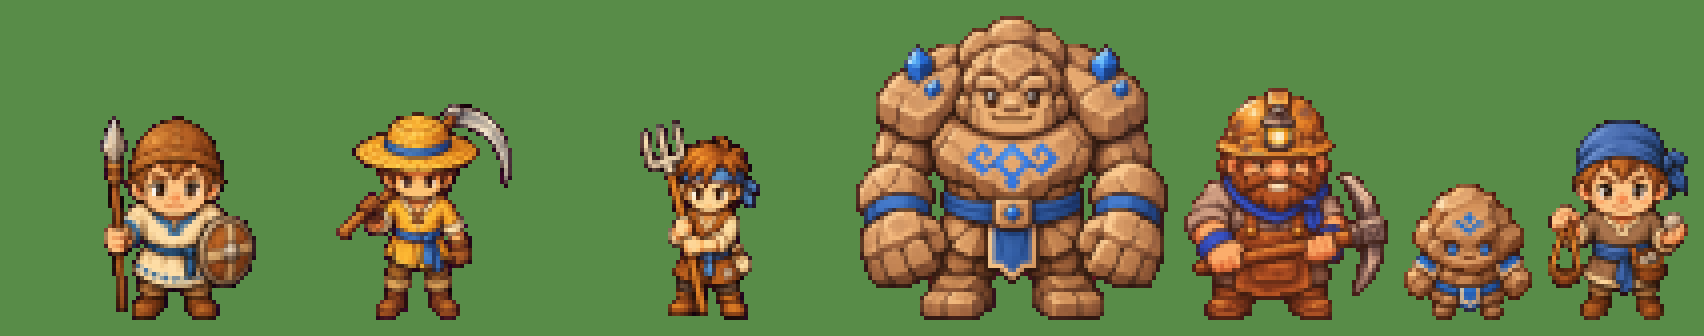
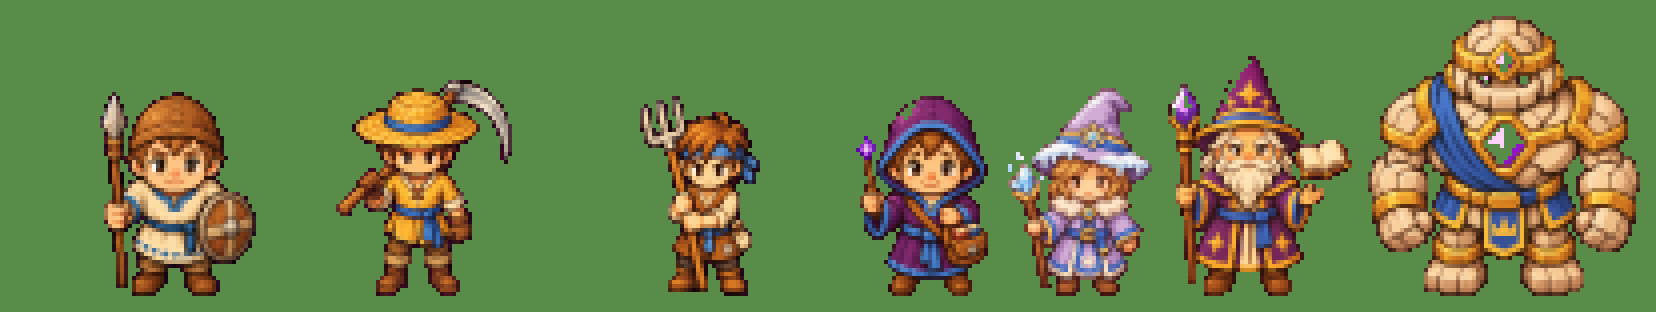
art(units): Arcane unit standing samples, approved; pose sheets next

diff --git a/docs/art-review/g3e/units/make_prompts.py b/docs/art-review/g3e/units/make_prompts.py
@@ -42,12 +42,17 @@ UNITS = {
     'miner': ('Thợ Mỏ (Đá)', 'a tough melee miner of the Stone kingdom.', 'a stocky bearded mountain miner in a brown leather apron over a grey wool shirt, a BLUE scarf and blue cuffs, a battered brass mining helmet with a small lantern, holding a big iron pickaxe across the body with both hands; gruff grin.', 64, 96),
     'rubble': ('Đá Vụn (Đá)', 'a small rock creature summoned by the Stone kingdom, weak and expendable.', 'a small living heap of WARM grey-brown rocks (not blue-grey) with two tiny stubby rock legs, two small glowing BLUE eyes and a small blue rune mark on the front; cute and clumsy.', 64, 64),
     'slinger': ('Lính Ném Đá (Đá)', 'a ranged sling thrower of the Stone kingdom.', 'a young mountain villager in a grey-brown wool tunic with a BLUE sash and a blue headscarf, a leather pouch of round stones on the belt, holding a leather sling ready in one hand and a stone in the other; alert eager face.', 64, 64),
+    # Arcane kingdom (2026-11-09, missing-art plan Task 2). Robes deep violet; the team colour stays BLUE trim only.
+    'apprentice': ('Pháp Sư Tập Sự (Phép Thuật)', 'a weak ranged apprentice mage of the Arcane kingdom.', 'a young apprentice in a deep violet hooded robe with BLUE trim and a blue sash, a satchel of books, holding a short wooden wand with a small glowing violet spark at the tip; eager nervous face.', 64, 64),
+    'frost_mage': ('Pháp Sư Băng (Phép Thuật)', 'a ranged frost mage of the Arcane kingdom whose bolts slow enemies.', 'a calm mage in a pale lavender robe with BLUE trim and a white fur collar, a pointed hat with frost on the brim, holding a staff topped with a pale ice crystal, tiny snowflakes around the crystal.', 64, 64),
+    'archmage': ('Đại Pháp Sư (Phép Thuật)', 'a tall powerful archmage of the Arcane kingdom whose magic hits several enemies.', 'a tall old archmage with a long white beard, a deep violet star-patterned robe with gold and BLUE trim, a tall pointed hat, holding a tall staff crowned with a glowing purple crystal, a floating open spellbook beside the shoulder.', 64, 96),
+    'construct': ('Người Máy Phép (Phép Thuật)', 'a sturdy arcane construct of the Arcane kingdom, a slow tanky melee unit.', 'a chunky chibi construct of pale carved stone plates bound with gold bands, a glowing violet crystal core in the chest, small glowing violet eyes, a BLUE cloth sash across the chest, big blocky fists; friendly heavy look.', 96, 96),
 }
 
 # In-game height in art pixels (4 art px per world unit) of units added after the Wheat set, chosen against the
 # approved militia (51 px tall). The standing sample is reduced to this height (make_poses.py --sample) and the pose
 # sheet is drawn at a block size that makes this height fit a 512 px cell.
-HEIGHT = {'golem': 76, 'miner': 58, 'rubble': 34, 'slinger': 50}
+HEIGHT = {'golem': 76, 'miner': 58, 'rubble': 34, 'slinger': 50, 'apprentice': 50, 'frost_mage': 52, 'archmage': 60, 'construct': 70}
 MILITIA_HEIGHT = 51
 # approved unit of the same kind, attached to every new unit's standing sample (ART_STYLE: "ảnh đã duyệt cùng loại")
 UNIT_REFERENCE = 'docs/art-review/g3e/units/militia/source.png'
@@ -87,6 +92,10 @@ POSES = [
 
 # unit id -> (wind-up, strike); the strike text is also what the gate test looks for
 ATTACK = {
+    'apprentice': 'the wand drawn back over the shoulder, a small violet spark gathering at its tip, weight on the back foot.',
+    'frost_mage': 'the ice staff raised high in both hands, the crystal glowing brighter, frost swirling around it.',
+    'archmage': 'the crystal staff raised overhead, the spellbook open and glowing, the free hand drawn back gathering violet light.',
+    'construct': 'both blocky stone fists raised high, the body leaning back, the violet core glowing brighter.',
     'militia': 'the spear pulled back to the hip, front knee bent, shield raised in front of the chest.',
     'reaper': 'the sickle-scythe raised high above and behind the head with both hands, weight on the back foot.',
     'peasant': 'the pitchfork pulled back at waist height with both hands, leaning back.',
@@ -96,6 +105,10 @@ ATTACK = {
     'slinger': 'the sling whirled above the head in one hand, the stone in the pouch, the other arm pointing right.',
 }
 STRIKE = {
+    'apprentice': 'the wand thrust forward to the right at arm length, a small violet spark leaving its tip (the bolt itself is drawn by the game), front foot forward.',
+    'frost_mage': 'the ice staff swung forward to the right and pointed at chest height, a puff of frost at the crystal (the bolt itself is drawn by the game).',
+    'archmage': 'the staff thrust forward to the right, a burst of violet light at the crystal (the bolt itself is drawn by the game), robe swirling.',
+    'construct': 'both fists slammed down together in front of it to the right at ground level, the body bent forward, small stone chips at the fists.',
     'militia': 'a long lunge to the right, the spear thrust straight out to the right at chest height with the arm fully extended, the shield stays on the body.',
     'reaper': 'a wide low swing: the blade sweeps down and forward to the right at knee height, body leaning forward.',
     'peasant': 'a hard jab: the pitchfork thrust forward to the right at chest height, both arms extended, front foot forward.',

diff --git a/docs/art-review/g3e/units/archmage/poses-prompt.md b/docs/art-review/g3e/units/archmage/poses-prompt.md
@@ -1,0 +1,19 @@
+Tạo MỘT ảnh pixel art bằng công cụ tạo ảnh (imagegen) và lưu đúng một file PNG vào `docs/art-review/g3e/units/archmage/poses-source.png` (sao chép vào đó nếu ảnh tạo ra nằm ngoài repo; tạo thư mục nếu chưa có). Không sửa file khác, không commit, không chạy node/npm.
+
+BẮT BUỘC TRƯỚC KHI VẼ: mở và đọc `docs/ART_STYLE.md` — mục "Quy tắc vẽ" và mục "Góc nhìn" (khung BẮT BUỘC). Ảnh tham chiếu đã duyệt đính kèm (`docs/art-review/style-references/harvester-house-front-approved.png`): lấy PHONG CÁCH và GÓC NHÌN (pixel art ấm áp, camera nhìn xuống 45°, viền là màu tối hơn của chính vật liệu, ánh sáng trên-trái, bão hòa ấm, họa tiết chất liệu rõ); KHÔNG sao chép hình ngôi nhà.
+
+Create ONE pixel-art ANIMATION SHEET for the Crowned Kingdoms unit Đại Pháp Sư (Phép Thuật) — a tall powerful archmage of the Arcane kingdom whose magic hits several enemies.
+The second attached image (`docs/art-review/g3e/units/archmage/source.png`) is this unit's standing sample: draw exactly the SAME character in every cell — same face, hair, clothes, colours, proportions, outline thickness, pixel size and the same weapon — only the pose changes.
+Format: a LANDSCAPE image, aspect ratio 3:2 (target 1536x1024 px), a grid of 3 columns x 2 rows of equal square cells (each 512x512 px). Each cell holds ONE full-body copy of the character, the same size in every cell, the feet on the same baseline near the bottom of the cell, a margin on every side, nothing crossing into another cell, no grid lines drawn. Each art pixel is a clean square block of 7x7 source pixels; the character is about 60 art pixels tall (about 420 source pixels) in every cell, the same block size in every cell.
+Cells in reading order (left to right, top row first):
+1. IDLE frame 1: the same standing pose as the attached sample, facing the viewer.
+2. IDLE frame 2: identical to idle frame 1 but breathing in: shoulders and head 1 art pixel lower, the weapon tip 1 art pixel lower; feet do not move.
+3. WALK frame 1: body turned three-quarter to the RIGHT, LEFT foot stepping forward, right foot back, arms swinging, body 1 art pixel lower than idle.
+4. WALK frame 2: body turned three-quarter to the RIGHT, RIGHT foot stepping forward, left foot back, the other arm swing, body at idle height.
+5. ATTACK frame 1 (wind-up): body turned three-quarter to the RIGHT, the crystal staff raised overhead, the spellbook open and glowing, the free hand drawn back gathering violet light.
+6. ATTACK frame 2 (strike): body turned three-quarter to the RIGHT, the staff thrust forward to the right, a burst of violet light at the crystal (the bolt itself is drawn by the game), robe swirling.
+View: the same camera as the approved buildings: looking DOWN at the character at 45 degrees, so a little of the top of the head, hat and shoulders is visible. NOT a pure side view, NOT a back view, NOT isometric. The poses must read clearly as a silhouette at 64x96 art pixels: big simple limb and weapon movements, no motion blur, no speed lines, no effects.
+Team colours: ALLY version, blue accents exactly as in the sample (the red enemy version is made later by a recolour tool).
+Style: warm cozy medieval fantasy pixel art, crisp square pixel clusters, upper-left lighting, a 1-art-pixel dark outline in a darker shade of each material (never pure black), the same palette as the sample.
+Background: ONE flat solid magenta #FF00FF filling the whole canvas (every cell), no gradient, no texture, no glow, NO cast shadow and no ground; the character must not contain magenta.
+No text, letters, numbers, labels, UI, frame, watermark, blur, antialiasing or smooth gradients.

diff --git a/docs/art-review/g3e/units/apprentice/poses-prompt.md b/docs/art-review/g3e/units/apprentice/poses-prompt.md
@@ -1,0 +1,19 @@
+Tạo MỘT ảnh pixel art bằng công cụ tạo ảnh (imagegen) và lưu đúng một file PNG vào `docs/art-review/g3e/units/apprentice/poses-source.png` (sao chép vào đó nếu ảnh tạo ra nằm ngoài repo; tạo thư mục nếu chưa có). Không sửa file khác, không commit, không chạy node/npm.
+
+BẮT BUỘC TRƯỚC KHI VẼ: mở và đọc `docs/ART_STYLE.md` — mục "Quy tắc vẽ" và mục "Góc nhìn" (khung BẮT BUỘC). Ảnh tham chiếu đã duyệt đính kèm (`docs/art-review/style-references/harvester-house-front-approved.png`): lấy PHONG CÁCH và GÓC NHÌN (pixel art ấm áp, camera nhìn xuống 45°, viền là màu tối hơn của chính vật liệu, ánh sáng trên-trái, bão hòa ấm, họa tiết chất liệu rõ); KHÔNG sao chép hình ngôi nhà.
+
+Create ONE pixel-art ANIMATION SHEET for the Crowned Kingdoms unit Pháp Sư Tập Sự (Phép Thuật) — a weak ranged apprentice mage of the Arcane kingdom.
+The second attached image (`docs/art-review/g3e/units/apprentice/source.png`) is this unit's standing sample: draw exactly the SAME character in every cell — same face, hair, clothes, colours, proportions, outline thickness, pixel size and the same weapon — only the pose changes.
+Format: a LANDSCAPE image, aspect ratio 3:2 (target 1536x1024 px), a grid of 3 columns x 2 rows of equal square cells (each 512x512 px). Each cell holds ONE full-body copy of the character, the same size in every cell, the feet on the same baseline near the bottom of the cell, a margin on every side, nothing crossing into another cell, no grid lines drawn. Each art pixel is a clean square block of 8x8 source pixels; the character is about 50 art pixels tall (about 400 source pixels) in every cell, the same block size in every cell.
+Cells in reading order (left to right, top row first):
+1. IDLE frame 1: the same standing pose as the attached sample, facing the viewer.
+2. IDLE frame 2: identical to idle frame 1 but breathing in: shoulders and head 1 art pixel lower, the weapon tip 1 art pixel lower; feet do not move.
+3. WALK frame 1: body turned three-quarter to the RIGHT, LEFT foot stepping forward, right foot back, arms swinging, body 1 art pixel lower than idle.
+4. WALK frame 2: body turned three-quarter to the RIGHT, RIGHT foot stepping forward, left foot back, the other arm swing, body at idle height.
+5. ATTACK frame 1 (wind-up): body turned three-quarter to the RIGHT, the wand drawn back over the shoulder, a small violet spark gathering at its tip, weight on the back foot.
+6. ATTACK frame 2 (strike): body turned three-quarter to the RIGHT, the wand thrust forward to the right at arm length, a small violet spark leaving its tip (the bolt itself is drawn by the game), front foot forward.
+View: the same camera as the approved buildings: looking DOWN at the character at 45 degrees, so a little of the top of the head, hat and shoulders is visible. NOT a pure side view, NOT a back view, NOT isometric. The poses must read clearly as a silhouette at 64x64 art pixels: big simple limb and weapon movements, no motion blur, no speed lines, no effects.
+Team colours: ALLY version, blue accents exactly as in the sample (the red enemy version is made later by a recolour tool).
+Style: warm cozy medieval fantasy pixel art, crisp square pixel clusters, upper-left lighting, a 1-art-pixel dark outline in a darker shade of each material (never pure black), the same palette as the sample.
+Background: ONE flat solid magenta #FF00FF filling the whole canvas (every cell), no gradient, no texture, no glow, NO cast shadow and no ground; the character must not contain magenta.
+No text, letters, numbers, labels, UI, frame, watermark, blur, antialiasing or smooth gradients.

diff --git a/docs/art-review/g3e/units/frost_mage/poses-prompt.md b/docs/art-review/g3e/units/frost_mage/poses-prompt.md
@@ -1,0 +1,19 @@
+Tạo MỘT ảnh pixel art bằng công cụ tạo ảnh (imagegen) và lưu đúng một file PNG vào `docs/art-review/g3e/units/frost_mage/poses-source.png` (sao chép vào đó nếu ảnh tạo ra nằm ngoài repo; tạo thư mục nếu chưa có). Không sửa file khác, không commit, không chạy node/npm.
+
+BẮT BUỘC TRƯỚC KHI VẼ: mở và đọc `docs/ART_STYLE.md` — mục "Quy tắc vẽ" và mục "Góc nhìn" (khung BẮT BUỘC). Ảnh tham chiếu đã duyệt đính kèm (`docs/art-review/style-references/harvester-house-front-approved.png`): lấy PHONG CÁCH và GÓC NHÌN (pixel art ấm áp, camera nhìn xuống 45°, viền là màu tối hơn của chính vật liệu, ánh sáng trên-trái, bão hòa ấm, họa tiết chất liệu rõ); KHÔNG sao chép hình ngôi nhà.
+
+Create ONE pixel-art ANIMATION SHEET for the Crowned Kingdoms unit Pháp Sư Băng (Phép Thuật) — a ranged frost mage of the Arcane kingdom whose bolts slow enemies.
+The second attached image (`docs/art-review/g3e/units/frost_mage/source.png`) is this unit's standing sample: draw exactly the SAME character in every cell — same face, hair, clothes, colours, proportions, outline thickness, pixel size and the same weapon — only the pose changes.
+Format: a LANDSCAPE image, aspect ratio 3:2 (target 1536x1024 px), a grid of 3 columns x 2 rows of equal square cells (each 512x512 px). Each cell holds ONE full-body copy of the character, the same size in every cell, the feet on the same baseline near the bottom of the cell, a margin on every side, nothing crossing into another cell, no grid lines drawn. Each art pixel is a clean square block of 8x8 source pixels; the character is about 52 art pixels tall (about 416 source pixels) in every cell, the same block size in every cell.
+Cells in reading order (left to right, top row first):
+1. IDLE frame 1: the same standing pose as the attached sample, facing the viewer.
+2. IDLE frame 2: identical to idle frame 1 but breathing in: shoulders and head 1 art pixel lower, the weapon tip 1 art pixel lower; feet do not move.
+3. WALK frame 1: body turned three-quarter to the RIGHT, LEFT foot stepping forward, right foot back, arms swinging, body 1 art pixel lower than idle.
+4. WALK frame 2: body turned three-quarter to the RIGHT, RIGHT foot stepping forward, left foot back, the other arm swing, body at idle height.
+5. ATTACK frame 1 (wind-up): body turned three-quarter to the RIGHT, the ice staff raised high in both hands, the crystal glowing brighter, frost swirling around it.
+6. ATTACK frame 2 (strike): body turned three-quarter to the RIGHT, the ice staff swung forward to the right and pointed at chest height, a puff of frost at the crystal (the bolt itself is drawn by the game).
+View: the same camera as the approved buildings: looking DOWN at the character at 45 degrees, so a little of the top of the head, hat and shoulders is visible. NOT a pure side view, NOT a back view, NOT isometric. The poses must read clearly as a silhouette at 64x64 art pixels: big simple limb and weapon movements, no motion blur, no speed lines, no effects.
+Team colours: ALLY version, blue accents exactly as in the sample (the red enemy version is made later by a recolour tool).
+Style: warm cozy medieval fantasy pixel art, crisp square pixel clusters, upper-left lighting, a 1-art-pixel dark outline in a darker shade of each material (never pure black), the same palette as the sample.
+Background: ONE flat solid magenta #FF00FF filling the whole canvas (every cell), no gradient, no texture, no glow, NO cast shadow and no ground; the character must not contain magenta.
+No text, letters, numbers, labels, UI, frame, watermark, blur, antialiasing or smooth gradients.

diff --git a/docs/art-review/g3e/units/construct/poses-prompt.md b/docs/art-review/g3e/units/construct/poses-prompt.md
@@ -1,0 +1,19 @@
+Tạo MỘT ảnh pixel art bằng công cụ tạo ảnh (imagegen) và lưu đúng một file PNG vào `docs/art-review/g3e/units/construct/poses-source.png` (sao chép vào đó nếu ảnh tạo ra nằm ngoài repo; tạo thư mục nếu chưa có). Không sửa file khác, không commit, không chạy node/npm.
+
+BẮT BUỘC TRƯỚC KHI VẼ: mở và đọc `docs/ART_STYLE.md` — mục "Quy tắc vẽ" và mục "Góc nhìn" (khung BẮT BUỘC). Ảnh tham chiếu đã duyệt đính kèm (`docs/art-review/style-references/harvester-house-front-approved.png`): lấy PHONG CÁCH và GÓC NHÌN (pixel art ấm áp, camera nhìn xuống 45°, viền là màu tối hơn của chính vật liệu, ánh sáng trên-trái, bão hòa ấm, họa tiết chất liệu rõ); KHÔNG sao chép hình ngôi nhà.
+
+Create ONE pixel-art ANIMATION SHEET for the Crowned Kingdoms unit Người Máy Phép (Phép Thuật) — a sturdy arcane construct of the Arcane kingdom, a slow tanky melee unit.
+The second attached image (`docs/art-review/g3e/units/construct/source.png`) is this unit's standing sample: draw exactly the SAME character in every cell — same face, hair, clothes, colours, proportions, outline thickness, pixel size and the same weapon — only the pose changes.
+Format: a LANDSCAPE image, aspect ratio 3:2 (target 1536x1024 px), a grid of 3 columns x 2 rows of equal square cells (each 512x512 px). Each cell holds ONE full-body copy of the character, the same size in every cell, the feet on the same baseline near the bottom of the cell, a margin on every side, nothing crossing into another cell, no grid lines drawn. Each art pixel is a clean square block of 6x6 source pixels; the character is about 70 art pixels tall (about 420 source pixels) in every cell, the same block size in every cell.
+Cells in reading order (left to right, top row first):
+1. IDLE frame 1: the same standing pose as the attached sample, facing the viewer.
+2. IDLE frame 2: identical to idle frame 1 but breathing in: shoulders and head 1 art pixel lower, the weapon tip 1 art pixel lower; feet do not move.
+3. WALK frame 1: body turned three-quarter to the RIGHT, LEFT foot stepping forward, right foot back, arms swinging, body 1 art pixel lower than idle.
+4. WALK frame 2: body turned three-quarter to the RIGHT, RIGHT foot stepping forward, left foot back, the other arm swing, body at idle height.
+5. ATTACK frame 1 (wind-up): body turned three-quarter to the RIGHT, both blocky stone fists raised high, the body leaning back, the violet core glowing brighter.
+6. ATTACK frame 2 (strike): body turned three-quarter to the RIGHT, both fists slammed down together in front of it to the right at ground level, the body bent forward, small stone chips at the fists.
+View: the same camera as the approved buildings: looking DOWN at the character at 45 degrees, so a little of the top of the head, hat and shoulders is visible. NOT a pure side view, NOT a back view, NOT isometric. The poses must read clearly as a silhouette at 96x96 art pixels: big simple limb and weapon movements, no motion blur, no speed lines, no effects.
+Team colours: ALLY version, blue accents exactly as in the sample (the red enemy version is made later by a recolour tool).
+Style: warm cozy medieval fantasy pixel art, crisp square pixel clusters, upper-left lighting, a 1-art-pixel dark outline in a darker shade of each material (never pure black), the same palette as the sample.
+Background: ONE flat solid magenta #FF00FF filling the whole canvas (every cell), no gradient, no texture, no glow, NO cast shadow and no ground; the character must not contain magenta.
+No text, letters, numbers, labels, UI, frame, watermark, blur, antialiasing or smooth gradients.

diff --git a/docs/art-review/g3e/units/archmage/prompt.md b/docs/art-review/g3e/units/archmage/prompt.md
@@ -1,0 +1,13 @@
+Tạo MỘT ảnh pixel art bằng công cụ tạo ảnh (imagegen) và lưu đúng một file PNG vào `docs/art-review/g3e/units/archmage/source.png` (sao chép vào đó nếu ảnh tạo ra nằm ngoài repo; tạo thư mục nếu chưa có). Không sửa file khác, không commit, không chạy node/npm.
+
+BẮT BUỘC TRƯỚC KHI VẼ: mở và đọc `docs/ART_STYLE.md` — mục "Quy tắc vẽ" và mục "Góc nhìn" (khung BẮT BUỘC). Ảnh tham chiếu đã duyệt đính kèm (`docs/art-review/style-references/harvester-house-front-approved.png`): lấy PHONG CÁCH và GÓC NHÌN (pixel art ấm áp, camera nhìn xuống 45°, viền là màu tối hơn của chính vật liệu, ánh sáng trên-trái, bão hòa ấm, họa tiết chất liệu rõ); KHÔNG sao chép hình ngôi nhà.
+
+Create one pixel-art game UNIT sprite for Crowned Kingdoms: Đại Pháp Sư (Phép Thuật) — a tall powerful archmage of the Arcane kingdom whose magic hits several enemies.
+Format: a SQUARE image (aspect ratio 1:1, target 1024x1024 px, to be reduced to 64x96 (the character fills the full height of a 96x96 square, drawn 64 wide) art pixels, so each art pixel is 10x10 source pixels). ONE small chibi character, standing in an idle pose, centered, whole body visible from the top of the head to the feet with a small margin on every side, the feet near the bottom edge. The head is about 40% of the character height (chibi proportions).
+View: the same camera as the approved buildings: looking DOWN at the character at 45 degrees, the character faces the viewer (very slight three-quarter allowed), so a little of the top of the head, hat and shoulders is visible. NOT a side view, NOT a back view, NOT isometric.
+Character: a tall old archmage with a long white beard, a deep violet star-patterned robe with gold and BLUE trim, a tall pointed hat, holding a tall staff crowned with a glowing purple crystal, a floating open spellbook beside the shoulder.
+Team colours: this is the ALLY version, with blue accents (belt, sash or trim). The red enemy version is made later by a recolour tool, so keep the team colour in a few clear separate areas.
+Style: warm cozy medieval fantasy pixel art, crisp square pixel clusters, upper-left lighting (top-left edges lighter, bottom-right edges darker), a 1-art-pixel dark outline in a darker shade of each material (never pure black), saturated warm palette, readable silhouette at 16x16 world units, large simple shapes, no tiny details.
+Background: ONE flat solid magenta #FF00FF filling the whole canvas, no gradient, no texture, no glow, NO cast shadow and no ground, so it can be cut out; the character itself must not contain magenta.
+No text, letters, numbers, labels, UI, frame, watermark, blur, antialiasing or smooth gradients. Only this one character.
+Scale and style: the second attached image is the APPROVED Wheat militia; match its chibi style, outline, shading and palette warmth exactly. In the game this unit stands about 118% as tall as that militia (60 art pixels against 51), so give it the matching bulk and proportions, but still draw it large, filling the canvas height.

diff --git a/docs/art-review/g3e/units/construct/prompt.md b/docs/art-review/g3e/units/construct/prompt.md
@@ -1,0 +1,13 @@
+Tạo MỘT ảnh pixel art bằng công cụ tạo ảnh (imagegen) và lưu đúng một file PNG vào `docs/art-review/g3e/units/construct/source.png` (sao chép vào đó nếu ảnh tạo ra nằm ngoài repo; tạo thư mục nếu chưa có). Không sửa file khác, không commit, không chạy node/npm.
+
+BẮT BUỘC TRƯỚC KHI VẼ: mở và đọc `docs/ART_STYLE.md` — mục "Quy tắc vẽ" và mục "Góc nhìn" (khung BẮT BUỘC). Ảnh tham chiếu đã duyệt đính kèm (`docs/art-review/style-references/harvester-house-front-approved.png`): lấy PHONG CÁCH và GÓC NHÌN (pixel art ấm áp, camera nhìn xuống 45°, viền là màu tối hơn của chính vật liệu, ánh sáng trên-trái, bão hòa ấm, họa tiết chất liệu rõ); KHÔNG sao chép hình ngôi nhà.
+
+Create one pixel-art game UNIT sprite for Crowned Kingdoms: Người Máy Phép (Phép Thuật) — a sturdy arcane construct of the Arcane kingdom, a slow tanky melee unit.
+Format: a SQUARE image (aspect ratio 1:1, target 1024x1024 px, to be reduced to 96x96 art pixels, so each art pixel is 10x10 source pixels). ONE small chibi character, standing in an idle pose, centered, whole body visible from the top of the head to the feet with a small margin on every side, the feet near the bottom edge. The head is about 40% of the character height (chibi proportions).
+View: the same camera as the approved buildings: looking DOWN at the character at 45 degrees, the character faces the viewer (very slight three-quarter allowed), so a little of the top of the head, hat and shoulders is visible. NOT a side view, NOT a back view, NOT isometric.
+Character: a chunky chibi construct of pale carved stone plates bound with gold bands, a glowing violet crystal core in the chest, small glowing violet eyes, a BLUE cloth sash across the chest, big blocky fists; friendly heavy look.
+Team colours: this is the ALLY version, with blue accents (belt, sash or trim). The red enemy version is made later by a recolour tool, so keep the team colour in a few clear separate areas.
+Style: warm cozy medieval fantasy pixel art, crisp square pixel clusters, upper-left lighting (top-left edges lighter, bottom-right edges darker), a 1-art-pixel dark outline in a darker shade of each material (never pure black), saturated warm palette, readable silhouette at 16x16 world units, large simple shapes, no tiny details.
+Background: ONE flat solid magenta #FF00FF filling the whole canvas, no gradient, no texture, no glow, NO cast shadow and no ground, so it can be cut out; the character itself must not contain magenta.
+No text, letters, numbers, labels, UI, frame, watermark, blur, antialiasing or smooth gradients. Only this one character.
+Scale and style: the second attached image is the APPROVED Wheat militia; match its chibi style, outline, shading and palette warmth exactly. In the game this unit stands about 137% as tall as that militia (70 art pixels against 51), so give it the matching bulk and proportions, but still draw it large, filling the canvas height.

diff --git a/docs/art-review/g3e/units/frost_mage/prompt.md b/docs/art-review/g3e/units/frost_mage/prompt.md
@@ -1,0 +1,13 @@
+Tạo MỘT ảnh pixel art bằng công cụ tạo ảnh (imagegen) và lưu đúng một file PNG vào `docs/art-review/g3e/units/frost_mage/source.png` (sao chép vào đó nếu ảnh tạo ra nằm ngoài repo; tạo thư mục nếu chưa có). Không sửa file khác, không commit, không chạy node/npm.
+
+BẮT BUỘC TRƯỚC KHI VẼ: mở và đọc `docs/ART_STYLE.md` — mục "Quy tắc vẽ" và mục "Góc nhìn" (khung BẮT BUỘC). Ảnh tham chiếu đã duyệt đính kèm (`docs/art-review/style-references/harvester-house-front-approved.png`): lấy PHONG CÁCH và GÓC NHÌN (pixel art ấm áp, camera nhìn xuống 45°, viền là màu tối hơn của chính vật liệu, ánh sáng trên-trái, bão hòa ấm, họa tiết chất liệu rõ); KHÔNG sao chép hình ngôi nhà.
+
+Create one pixel-art game UNIT sprite for Crowned Kingdoms: Pháp Sư Băng (Phép Thuật) — a ranged frost mage of the Arcane kingdom whose bolts slow enemies.
+Format: a SQUARE image (aspect ratio 1:1, target 1024x1024 px, to be reduced to 64x64 art pixels, so each art pixel is 16x16 source pixels). ONE small chibi character, standing in an idle pose, centered, whole body visible from the top of the head to the feet with a small margin on every side, the feet near the bottom edge. The head is about 40% of the character height (chibi proportions).
+View: the same camera as the approved buildings: looking DOWN at the character at 45 degrees, the character faces the viewer (very slight three-quarter allowed), so a little of the top of the head, hat and shoulders is visible. NOT a side view, NOT a back view, NOT isometric.
+Character: a calm mage in a pale lavender robe with BLUE trim and a white fur collar, a pointed hat with frost on the brim, holding a staff topped with a pale ice crystal, tiny snowflakes around the crystal.
+Team colours: this is the ALLY version, with blue accents (belt, sash or trim). The red enemy version is made later by a recolour tool, so keep the team colour in a few clear separate areas.
+Style: warm cozy medieval fantasy pixel art, crisp square pixel clusters, upper-left lighting (top-left edges lighter, bottom-right edges darker), a 1-art-pixel dark outline in a darker shade of each material (never pure black), saturated warm palette, readable silhouette at 16x16 world units, large simple shapes, no tiny details.
+Background: ONE flat solid magenta #FF00FF filling the whole canvas, no gradient, no texture, no glow, NO cast shadow and no ground, so it can be cut out; the character itself must not contain magenta.
+No text, letters, numbers, labels, UI, frame, watermark, blur, antialiasing or smooth gradients. Only this one character.
+Scale and style: the second attached image is the APPROVED Wheat militia; match its chibi style, outline, shading and palette warmth exactly. In the game this unit stands about 102% as tall as that militia (52 art pixels against 51), so give it the matching bulk and proportions, but still draw it large, filling the canvas height.

diff --git a/docs/art-review/g3e/units/apprentice/prompt.md b/docs/art-review/g3e/units/apprentice/prompt.md
@@ -1,0 +1,13 @@
+Tạo MỘT ảnh pixel art bằng công cụ tạo ảnh (imagegen) và lưu đúng một file PNG vào `docs/art-review/g3e/units/apprentice/source.png` (sao chép vào đó nếu ảnh tạo ra nằm ngoài repo; tạo thư mục nếu chưa có). Không sửa file khác, không commit, không chạy node/npm.
+
+BẮT BUỘC TRƯỚC KHI VẼ: mở và đọc `docs/ART_STYLE.md` — mục "Quy tắc vẽ" và mục "Góc nhìn" (khung BẮT BUỘC). Ảnh tham chiếu đã duyệt đính kèm (`docs/art-review/style-references/harvester-house-front-approved.png`): lấy PHONG CÁCH và GÓC NHÌN (pixel art ấm áp, camera nhìn xuống 45°, viền là màu tối hơn của chính vật liệu, ánh sáng trên-trái, bão hòa ấm, họa tiết chất liệu rõ); KHÔNG sao chép hình ngôi nhà.
+
+Create one pixel-art game UNIT sprite for Crowned Kingdoms: Pháp Sư Tập Sự (Phép Thuật) — a weak ranged apprentice mage of the Arcane kingdom.
+Format: a SQUARE image (aspect ratio 1:1, target 1024x1024 px, to be reduced to 64x64 art pixels, so each art pixel is 16x16 source pixels). ONE small chibi character, standing in an idle pose, centered, whole body visible from the top of the head to the feet with a small margin on every side, the feet near the bottom edge. The head is about 40% of the character height (chibi proportions).
+View: the same camera as the approved buildings: looking DOWN at the character at 45 degrees, the character faces the viewer (very slight three-quarter allowed), so a little of the top of the head, hat and shoulders is visible. NOT a side view, NOT a back view, NOT isometric.
+Character: a young apprentice in a deep violet hooded robe with BLUE trim and a blue sash, a satchel of books, holding a short wooden wand with a small glowing violet spark at the tip; eager nervous face.
+Team colours: this is the ALLY version, with blue accents (belt, sash or trim). The red enemy version is made later by a recolour tool, so keep the team colour in a few clear separate areas.
+Style: warm cozy medieval fantasy pixel art, crisp square pixel clusters, upper-left lighting (top-left edges lighter, bottom-right edges darker), a 1-art-pixel dark outline in a darker shade of each material (never pure black), saturated warm palette, readable silhouette at 16x16 world units, large simple shapes, no tiny details.
+Background: ONE flat solid magenta #FF00FF filling the whole canvas, no gradient, no texture, no glow, NO cast shadow and no ground, so it can be cut out; the character itself must not contain magenta.
+No text, letters, numbers, labels, UI, frame, watermark, blur, antialiasing or smooth gradients. Only this one character.
+Scale and style: the second attached image is the APPROVED Wheat militia; match its chibi style, outline, shading and palette warmth exactly. In the game this unit stands about 98% as tall as that militia (50 art pixels against 51), so give it the matching bulk and proportions, but still draw it large, filling the canvas height.

diff --git a/docs/art-review/g3e/units/sample-review-arcane.md b/docs/art-review/g3e/units/sample-review-arcane.md
@@ -1,0 +1,7 @@
+# Lính Phép Thuật — duyệt mẫu đứng yên (plan asset còn thiếu, Task 2)
+
+`python docs/art-review/g3e/units/make_prompts.py apprentice frost_mage archmage construct` (đính kèm ảnh phong cách và Dân Quân đã duyệt). Codex vẽ 09/11/2026; preview thu nhỏ: `sheet-sample-new.png`.
+
+Claude kiểm: bốn lính (Pháp Sư Tập Sự, Pháp Sư Băng, Đại Pháp Sư, Người Máy Phép) cùng tỉ lệ chibi, viền và độ ấm với Dân Quân; nhìn xuống 45°, mặt hướng người xem; màu phe là các mảng xanh dương tách riêng (thắt lưng, viền áo, khăn) để công cụ đổi màu phe địch chỉ chạm vào đó; nền magenta phẳng.
+
+**Trạng thái:** ĐÃ DUYỆT 09/11/2026 — Claude duyệt theo uỷ quyền của chủ dự án (09/11/2026). Bước tiếp: bảng 6 tư thế (`make_prompts.py --poses`), rồi `make_poses.py --export`.
